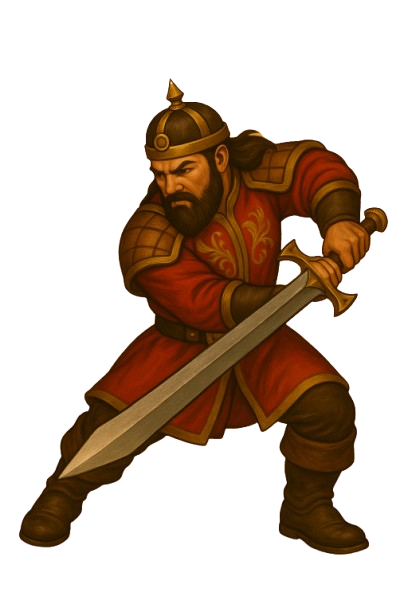
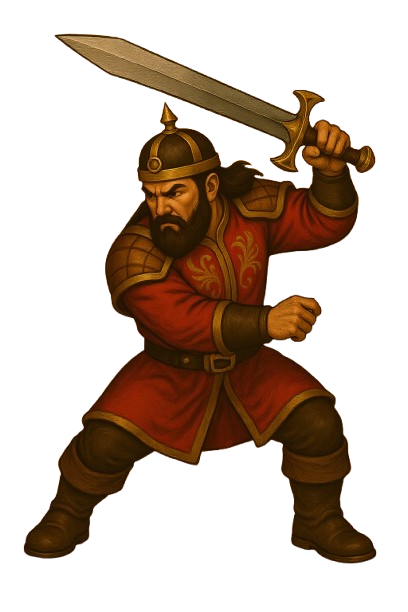
feat: Implement attack animation in ChatbotWidget and update SelectSector to trigger it. Pass chatbotRef to SelectSector and adjust image dimensions during attack. Update binary assets for game and attack visuals.

diff --git a/front/src/pages/SelectSector.jsx b/front/src/pages/SelectSector.jsx
@@ -81,7 +81,7 @@ function getRoundTrendGuide(period) {
   return "허허, 현재 시점의 시장 동향을 잘 살펴 투자 전략을 세워보시게!";
 }
 
-const SelectSector = () => {
+const SelectSector = ({ chatbotRef }) => {
   const { user, updateUser } = useAuth();
   const [sectors, setSectors] = useState([]);
   const [selected, setSelected] = useState(null);
@@ -479,6 +479,18 @@ const SelectSector = () => {
               orderModal.stock.name
             } ${orderQty}주 판매하기 완료! (${orderModal.stock.current_price.toLocaleString()}원)`
       );
+
+      // 디버깅: 공격 애니메이션 트리거 시도 로그
+      console.log("주문 성공! 공격 애니메이션 시도");
+      if (chatbotRef.current && chatbotRef.current.triggerAttackAnimation) {
+        console.log("triggerAttackAnimation 호출!", chatbotRef.current);
+        chatbotRef.current.triggerAttackAnimation();
+      } else {
+        console.log(
+          "chatbotRef.current 또는 triggerAttackAnimation 없음",
+          chatbotRef.current
+        );
+      }
 
       // 사용자 정보 업데이트 (잔고 동기화)
       try {
@@ -1503,102 +1515,41 @@ const SelectSector = () => {
           </div>
         )}
 
-        <ChatbotWidget currentRound={(user?.current_round_idx ?? 0) + 1} />
-      </div>
-      {/* 오른쪽 보유종목 사이드바 */}
-      {/* 아래 코드(보유종목 사이드바) 전체를 삭제 */}
-      {/* <div
-        className="w-80 min-w-[320px] max-w-xs ml-8 bg-[#f3e7c4] rounded-xl shadow-lg border-2 border-[#e6d3a3] p-6 h-fit sticky top-8 self-start hidden lg:block"
-        style={{ fontFamily: "serif" }}
-      >
-        <button
-          className="w-full flex items-center justify-between text-xl font-bold text-[#7c5c2b] mb-2 focus:outline-none border-b-2 border-[#e6d3a3] pb-2"
-          onClick={() => setPortfolioOpen((open) => !open)}
-          style={{ fontFamily: "serif" }}
-        >
-          내 보유종목
-          <span
-            className={`ml-2 transition-transform duration-200 ${
-              portfolioOpen ? "rotate-180" : ""
-            }`}
-          >
-            ▼
-          </span>
-        </button>
-        <div
-          className={`overflow-hidden transition-all duration-300 ${
-            portfolioOpen ? "max-h-[600px] opacity-100" : "max-h-0 opacity-0"
-          }`}
-        >
-          {portfolio && portfolio.items.length > 0 ? (
-            <ul className="space-y-3 mt-2">
-              {portfolio.items.map((item) => (
-                <li
-                  key={item.stock_id}
-                  className="flex flex-col gap-1 border-b border-[#e6d3a3] pb-2 last:border-b-0 last:pb-0"
-                >
-                  <div className="font-semibold text-[#7c5c2b]">
-                    {item.stock_name}{" "}
-                    <span className="text-xs text-[#a67c3c]">
-                      ({item.stock_symbol})
-                    </span>
-                  </div>
-                  <div className="text-sm text-[#a67c3c]">
-                    보유수량:{" "}
-                    <span className="font-bold">
-                      {item.quantity.toLocaleString()}주
-                    </span>
-                  </div>
-                  <div className="text-sm text-[#a67c3c]">
-                    평균단가:{" "}
-                    <span className="font-bold">
-                      {item.average_price.toLocaleString()}원
-                    </span>
-                  </div>
-                </li>
-              ))}
-            </ul>
-          ) : (
-            <div className="text-[#a67c3c] text-center py-8">
-              보유한 종목이 없습니다.
-            </div>
-          )}
-        </div>
-      </div> */}
-      {resultModalOpen && (
-        <div className="fixed inset-0 flex items-center justify-center bg-black bg-opacity-40 z-50">
-          <div className="bg-white rounded-xl shadow-2xl p-8 max-w-md w-full text-center flex flex-col justify-center">
-            {/* <h2 className="text-2xl font-bold mb-4">전투 결과</h2> */}
-            <p
-              className="text-gray-700 mb-8"
-              style={{
-                fontFamily: "Jua, sans-serif",
-                fontSize: "1.3rem",
-                fontWeight: 700,
-              }}
-            >
-              전투를 끝내고, 결과를 확인하겠는가?
-            </p>
-            <div className="flex justify-center gap-8">
-              <button
-                className="px-8 py-3 bg-[#7c5c2b] hover:bg-[#a67c3c] text-white rounded-full font-bold text-lg"
-                onClick={() => {
-                  setResultModalOpen(false);
-                  navigate("/my-page");
+        {resultModalOpen && (
+          <div className="fixed inset-0 flex items-center justify-center bg-black bg-opacity-40 z-50">
+            <div className="bg-white rounded-xl shadow-2xl p-8 max-w-md w-full text-center flex flex-col justify-center">
+              {/* <h2 className="text-2xl font-bold mb-4">전투 결과</h2> */}
+              <p
+                className="text-gray-700 mb-8"
+                style={{
+                  fontFamily: "Jua, sans-serif",
+                  fontSize: "1.3rem",
+                  fontWeight: 700,
                 }}
               >
-                예
-              </button>
-              <button
-                className="px-8 py-3 bg-gray-300 hover:bg-gray-400 text-[#7c5c2b] rounded-full font-bold text-lg"
-                onClick={() => setResultModalOpen(false)}
-              >
-                아니오
-              </button>
+                전투를 끝내고, 결과를 확인하겠는가?
+              </p>
+              <div className="flex justify-center gap-8">
+                <button
+                  className="px-8 py-3 bg-[#7c5c2b] hover:bg-[#a67c3c] text-white rounded-full font-bold text-lg"
+                  onClick={() => {
+                    setResultModalOpen(false);
+                    navigate("/my-page");
+                  }}
+                >
+                  예
+                </button>
+                <button
+                  className="px-8 py-3 bg-gray-300 hover:bg-gray-400 text-[#7c5c2b] rounded-full font-bold text-lg"
+                  onClick={() => setResultModalOpen(false)}
+                >
+                  아니오
+                </button>
+              </div>
             </div>
           </div>
-        </div>
-      )}
+        )}
+      </div>
     </div>
   );
 };

diff --git a/front/src/components/ChatbotWidget.jsx b/front/src/components/ChatbotWidget.jsx
@@ -24,6 +24,9 @@ const ChatbotWidget = forwardRef(
     const [showSpeechBubble, setShowSpeechBubble] = useState(false); // 말풍선 표시 여부
     const [heroAnimating, setHeroAnimating] = useState(false); // 캐릭터 애니메이션 여부
     const [loadingAnimating, setLoadingAnimating] = useState(false); // 로딩 애니메이션 여부
+    const [isAttacking, setIsAttacking] = useState(false);
+    const [attackFrame, setAttackFrame] = useState(0);
+    const attackIntervalRef = useRef(null);
 
     const typingIntervalRef = useRef(null);
     const speechTimeoutRef = useRef(null);
@@ -224,6 +227,26 @@ const ChatbotWidget = forwardRef(
         // 새 메시지 타이핑 시작
         typeMessage(safeText);
       },
+      triggerAttackAnimation: () => {
+        console.log("공격 애니메이션 트리거됨!", isAttacking, attackFrame);
+        if (isAttacking) return;
+        // 공격 애니메이션 중에는 다른 상태를 false로 강제
+        setLoading(false);
+        setIsSpeaking(false);
+        setHeroAnimating(false);
+        setIsAttacking(true);
+        setAttackFrame(0);
+        let frame = 0;
+        attackIntervalRef.current = setInterval(() => {
+          frame = (frame + 1) % 2;
+          setAttackFrame(frame);
+          console.log("attackFrame 변경:", frame);
+        }, 500); // 500ms로 변경 (한 프레임당 0.5초)
+        setTimeout(() => {
+          setIsAttacking(false);
+          clearInterval(attackIntervalRef.current);
+        }, 1000);
+      },
     }));
 
     // 컴포넌트 언마운트 시 정리
@@ -241,8 +264,20 @@ const ChatbotWidget = forwardRef(
         if (loadingAnimationRef.current) {
           clearInterval(loadingAnimationRef.current);
         }
+        if (attackIntervalRef.current) {
+          clearInterval(attackIntervalRef.current);
+        }
       };
     }, []);
+
+    useEffect(() => {
+      console.log(
+        "isAttacking 상태:",
+        isAttacking,
+        "attackFrame:",
+        attackFrame
+      );
+    }, [isAttacking, attackFrame]);
 
     const handleSend = async (e) => {
       e.preventDefault();
@@ -586,8 +621,13 @@ const ChatbotWidget = forwardRef(
                 {/* 용사 캐릭터 이미지 */}
                 <div className="relative transform translate-x-16">
                   <img
+                    key={isAttacking ? `attack-${attackFrame}` : "normal"}
                     src={
-                      loading
+                      isAttacking
+                        ? `/attack${
+                            attackFrame === 0 ? "" : "(2)"
+                          }.png?v=${attackFrame}&t=${isAttacking ? "a" : "n"}`
+                        : loading
                         ? loadingAnimating
                           ? heroThinking
                           : heroThinking2
@@ -598,8 +638,8 @@ const ChatbotWidget = forwardRef(
                     alt="용사"
                     className="object-contain transition-all duration-200"
                     style={{
-                      width: "25vw",
-                      height: "20vw",
+                      width: isAttacking ? "32.5vw" : "25vw", // 1.3배
+                      height: isAttacking ? "26vw" : "20vw", // 1.3배
                       filter: isSpeaking ? "brightness(1.1)" : "brightness(1)",
                       transform: isSpeaking ? "scale(1.05)" : "scale(1)",
                     }}

diff --git a/front/src/App.jsx b/front/src/App.jsx
@@ -307,7 +307,7 @@ function App() {
                                     : ""
                                 }
                               >
-                                <SelectSector />
+                                <SelectSector chatbotRef={chatbotRef} />
                               </div>
                             </PrivateRoute>
                           }
